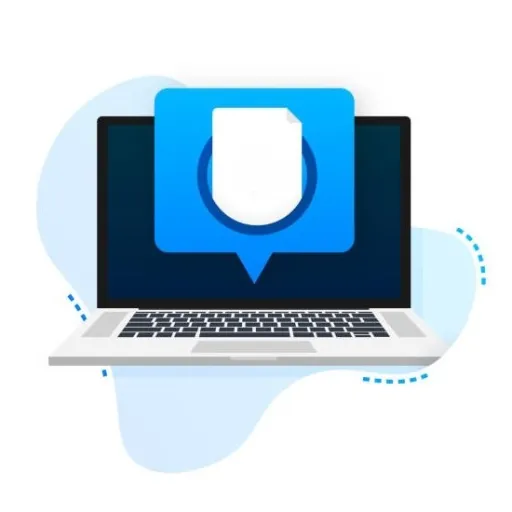
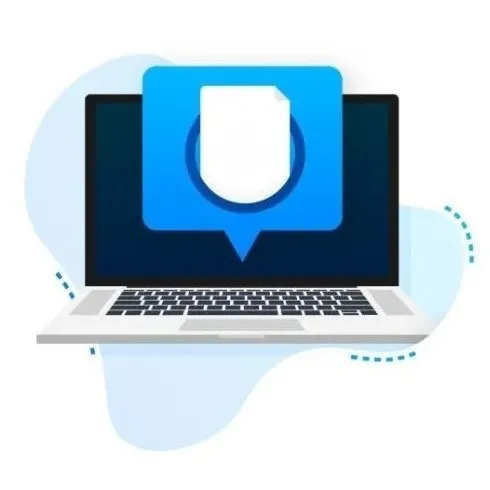
commit

Changed region(s): [[0.0306, 0.0918, 0.9796, 0.8878]]

diff --git a/pages/index.js b/pages/index.js
@@ -14,23 +14,27 @@ export default function Home({ router }) {
         }, 300)
     }
 
-    return <div className='flex flex-col mx-[5vw] mb-12 space-y-12 md:flex-row md:space-x-6 md:space-y-0 items-center md:justify-center lg:justify-evenly text-center md:h-[calc(100vh-8rem)]'>
-        <div className='image-container pt-1 pb-16' onMouseEnter={() => setHover('upload')} onMouseLeave={() => setHover()} onClick={() => redirect('/file/upload')} onContextMenu={e => e.preventDefault()}>
-            <img src='/images/upload.webp' alt='' width={250} />
-            <div className={`x-center top-44 transition-all duration-300 ${hover === 'upload' ? '-translate-y-[5.5rem]' : 'opacity-0'}`}>
-                <img src='/images/arrow.png' alt='' width={50} fetchPriority='low' />
+    return <div className='flex flex-col sm:flex-wrap mx-[5vw] mb-10 sm:flex-row gap-x-8 gap-y-10 items-center sm:justify-center text-center sm:h-[calc(100vh-11rem)]'>
+        <div className='image-container' onClick={() => redirect('/account')} onContextMenu={e => e.preventDefault()}>
+            <img src='/images/account.webp' alt='' className='min-h-full aspect-square scale-90' />
+            <div className='x-center bottom-4'>Your account</div>
+        </div>
+        <div className='image-container items-end' onMouseEnter={() => setHover('upload')} onMouseLeave={() => setHover()} onClick={() => redirect('/file/upload')} onContextMenu={e => e.preventDefault()}>
+            <img src='/images/upload.webp' alt='' className='min-h-full aspect-square' />
+            <div className={`x-center top-[57%] transition-all duration-300 ${hover === 'upload' ? '-translate-y-[5rem]' : 'opacity-0'}`}>
+                <img src='/images/arrow.png' alt='' className='scale-95' fetchPriority='low' />
             </div>
             <div className='x-center bottom-4'>Upload files</div>
         </div>
-        <div className='image-container pt-1 pb-16' onMouseEnter={() => setHover('download')} onMouseLeave={() => setHover()} onClick={() => redirect('/file/download')} onContextMenu={e => e.preventDefault()}>
-            <img src='/images/download.webp' alt='' width={250} className='opacity-95' />
-            <div className={`x-center top-3 transition-all duration-300 rotate-180 ${hover === 'download' ? 'translate-y-[3.5rem] opacity-100' : 'opacity-0'}`}>
-                <img src='/images/arrow.png' alt='' width={40} fetchPriority='low' />
+        <div className='image-container' onMouseEnter={() => setHover('download')} onMouseLeave={() => setHover()} onClick={() => redirect('/file/download')} onContextMenu={e => e.preventDefault()}>
+            <img src='/images/download.webp' alt='' className='min-h-full aspect-square scale-90 top-0 opacity-95' />
+            <div className={`x-center top-0 transition-all duration-300 rotate-180 ${hover === 'download' ? 'top-[20%]' : 'opacity-0'}`}>
+                <img src='/images/arrow.png' alt='' className='scale-[0.6]' fetchPriority='low' />
             </div>
             <div className='x-center bottom-4'>Download files</div>
         </div>
-        <div className='image-container pt-12 pb-24' onClick={() => redirect('/p2p')} onContextMenu={e => e.preventDefault()}>
-            <img src='/images/p2p.webp' alt='' width={176} />
+        <div className='image-container' onClick={() => redirect('/p2p')} onContextMenu={e => e.preventDefault()}>
+            <img src='/images/p2p.webp' alt='' className='min-h-full aspect-square scale-90' />
             <div className='x-center bottom-4'>Peer-to-peer transfer</div>
         </div>
     </div>

diff --git a/next.config.js b/next.config.js
@@ -1,7 +1,7 @@
 /** @type {import('next').NextConfig} */
 
 const pages = ['/', '/account', '/account/forgot', '/account/history?filter=upload', '/account/history?filter=transfer', '/account/history?filter=download', '/account/login', '/account/signup', '/file/upload', '/file/upload?share=true', '/file/download', '/p2p', '/p2p?share=true']
-const images = ['/images/upload.webp', '/images/download.webp', '/images/p2p.webp', '/images/arrow.png', '/images/logo.webp']
+const images = ['/images/account.webp', '/images/upload.webp', '/images/download.webp', '/images/p2p.webp', '/images/arrow.png', '/images/logo.webp']
 const revision = `${Date.now()}`
 
 const withPWA = require('@ducanh2912/next-pwa').default({

diff --git a/styles/globals.css b/styles/globals.css
@@ -27,7 +27,7 @@
 }
 
 .image-container {
-    @apply shadow-md rounded-lg w-80 h-80 max-w-[90vw] cursor-pointer select-none hover:shadow-2xl transition-all duration-300 relative flex justify-center
+    @apply shadow-md rounded-lg w-80 h-80 max-w-[90vw] max-h-[35vh] cursor-pointer select-none hover:shadow-2xl transition-all duration-300 relative flex justify-center pt-4 pb-12 sm:flex-[0_0_40%]
 }
 
 * {
